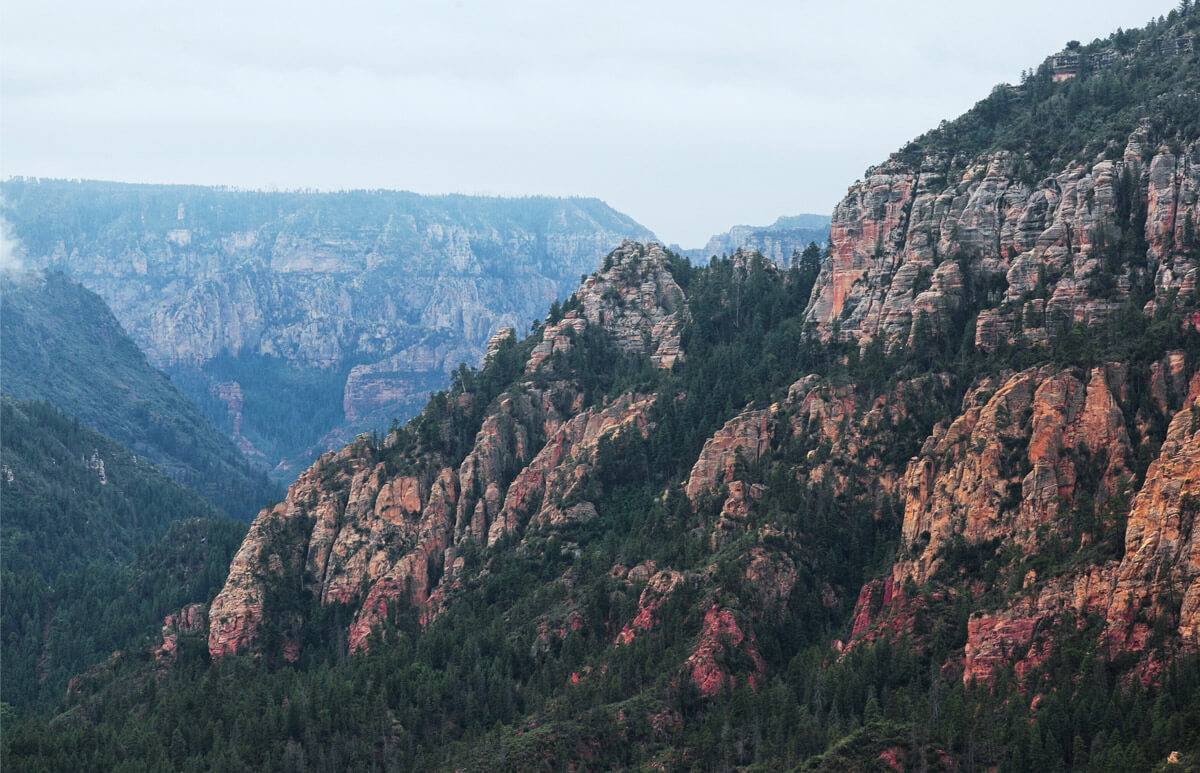
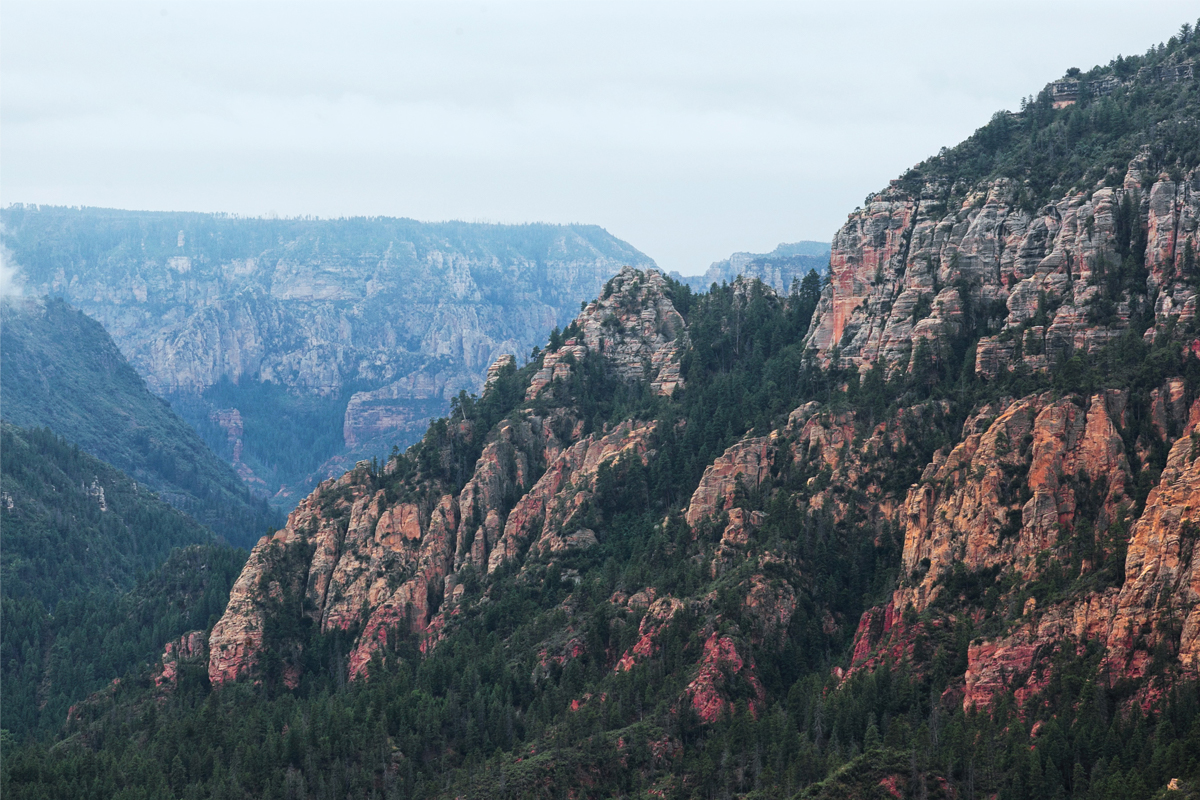
Исправления

diff --git a/catalog.html b/catalog.html
@@ -3,11 +3,12 @@
   <head>
     <meta charset="utf-8">
     <title>Sedona</title>
+    <link href="https://fonts.googleapis.com/css?family=PT+Sans:400,700&amp;subset=cyrillic" rel="stylesheet">
     <link rel="stylesheet" type="text/css" href="css/normalize.css">
     <link rel="stylesheet" type="text/css" href="css/styles.css">
   </head>
   <body>
-    <div class="conteiner">  
+    <div class="container">  
       <header class="main-header">
         <nav class="main-navigation">
           <div class="logo-sedona">
@@ -29,30 +30,30 @@
               <fieldset class="infrastructure">
                 <legend>Инфраструктура:</legend>
                 <div class="infrastructure-item">    
-                  <input class="visually-hidden input-checkbox" type="checkbox" checked id="infrastructure-pool">
+                  <input name="pool" class="visually-hidden input-checkbox" type="checkbox" checked id="infrastructure-pool">
                   <label for="infrastructure-pool">Бассейн</label>
                 </div>
                 <div class="infrastructure-item">
-                  <input class="visually-hidden input-checkbox" type="checkbox" id="infrastructure-parking">
+                  <input name="parking" class="visually-hidden input-checkbox" type="checkbox" id="infrastructure-parking">
                   <label for="infrastructure-parking">Парковка</label>
                 </div>
                 <div class="infrastructure-item"> 
-                  <input class="visually-hidden input-checkbox" type="checkbox" id="infrastructure-wi-fi">
+                  <input name="wi-fi" class="visually-hidden input-checkbox" type="checkbox" id="infrastructure-wi-fi">
                   <label for="infrastructure-wi-fi">Wi-Fi</label> 
                 </div>                
               </fieldset>    
               <fieldset class="type-of-housing">
                 <legend>Тип жилья:</legend>
-                <div class="type-of housing-item">
-                  <input class="visually-hidden input-checkbox" type="checkbox" checked id="type-hotel">
+                <div class="type-of-housing-item">
+                  <input name="hotel" class="visually-hidden input-checkbox" type="checkbox" checked id="type-hotel">
                   <label for="type-hotel">Гостинница</label> 
                 </div>
-                <div class="type-of housing-item">  
-                  <input class="visually-hidden input-checkbox" type="checkbox" checked id="type-motel">
+                <div class="type-of-housing-item">  
+                  <input name="motel" class="visually-hidden input-checkbox" type="checkbox" checked id="type-motel">
                   <label for="type-motel">Мотель </label>
                 </div>
-                <div class="type-of housing-item">
-                  <input class="visually-hidden input-checkbox" type="checkbox" checked id="type-apartment">
+                <div class="type-of-housing-item">
+                  <input name="apartment" class="visually-hidden input-checkbox" type="checkbox" checked id="type-apartment">
                   <label for="type-apartment">Аппартаменты</label>  
                 </div>      
               </fieldset>
@@ -90,8 +91,8 @@
               </div>
             </div>  
           </div>
-          <ul class="hotel-list">
-            <div class="center">
+          <div class="center">            
+            <ul class="hotel-list">            
               <li class="hotel-item">
                 <div class="hotel-photo">
                   <img src="img/amararesort.jpg" width="135" height="90" alt="Desert quail inn">
@@ -170,14 +171,14 @@
                   <span class="rating-results">Рейтинг: 9,2</span>
                 </div>
               </li>
-            </div>
-          </ul>
+            </ul>
+          </div>
         </section>
       </main>
        <footer class="main-footer">
         <p class="hashtag">#visitsedona</p>
         <ul class="footer-social">
-          <div class="social-conteiner">  
+          <div class="social-container">  
             <li><a class="social-twitter social-item" href="#"><span class="visually-hidden">Твиттер</span><svg xmlns="http://www.w3.org/2000/svg" xmlns:xlink="http://www.w3.org/1999/xlink" width="17" height="15" viewBox="0 0 17 15"><path fill="#FFF" d="M10.95.144c1.685-.496 2.984.27 3.577 1.179.673-.231 1.331-.481 2.011-.708a2.345 2.345 0 0 1-.857 1.768c.685.17 1.304-.491 1.304-.491-.169 1-1.006 1.788-1.563 2.024-.231 6.75-3.175 11.217-10.077 11.082h-.446c-.41 0-4.164-.46-4.898-1.887 2.271.196 3.893-.422 4.693-1.177-.96-.3-2.679-.477-2.979-2.95.349.106.564.228 1.19.119C1.705 8.247.374 7.53.448 5.33c.285.328 1.067.536 1.34.472C1.085 5.561-.182 2.442.894.85c1.818 1.854 3.735 3.606 7.152 3.773C8.254 2.33 9.183.793 10.95.144z"/></svg></a>
             </li>
             <li><a class="social-facebook social-item" href="#"><span class="visually-hidden">Фейсбук</span>

diff --git a/index.html b/index.html
@@ -8,7 +8,7 @@
     <link rel="stylesheet" type="text/css" href="css/styles.css">
   </head>
   <body>
-    <div class="conteiner">
+    <div class="container">
       <header class="main-header">
         <nav class="main-navigation">
           <div class="logo-sedona">
@@ -24,12 +24,11 @@
       </header>
       <main>
         <section class="banner">
-            <img src="img/welcome.png" alt="Седона">
+          <img src="img/welcome.png" alt="Седона">
         </section>
         <section class="sedona-intro">
           <h1 class="intro">Седона - небольшой городок в Аризоне, заслуживающий большего</h1>
-          
-            <p>Рассмотрим 5 причин, по которым Седона круче, чем Гранд Каньон</p>
+          <p>Рассмотрим 5 причин, по которым Седона круче, чем Гранд Каньон</p>
         </section>
         <section class="advantages">
           <h2 class="visually-hidden">Причины посетить Седону</h2>
@@ -101,14 +100,14 @@
             <form class="search-form" method="get">
               <label for="date-of-arrival">Дата заезда:</label>
               <div class="search-form-arrival">
-                <input type="text" id="date-of-arrival" value="24 апреля 2017">
+                <input name="date-arrival" type="text" id="date-of-arrival" value="24 апреля 2017">
                 <button class="date-calendar" type="button">
                   <span class="visually-hidden">Выберите дату</span>
                 </button>
               </div>
               <label for="date-of-departure">Дата выезда:</label>
               <div class="search-form-departure">
-                <input type="text" id="date-of-departure" value="4 июля 2017">
+                <input name="date-departure" type="text" id="date-of-departure" value="4 июля 2017">
                 <button class="date-calendar" type="button">
                   <span class="visually-hidden">Выберите дату</span>
                 </button>
@@ -117,7 +116,7 @@
                 <label for="visitor-adults">Взрослые:</label>
                 <div class="visitor-adults-area">
                   <button class="visitor-minus" type="button"><span class="visually-hidden">Минус один взрослый</span></button>
-                  <input type="text" id="visitor-adults" value="2">
+                  <input name="adults" type="text" id="visitor-adults" value="2">
                   <button class="visitor-plus" type="button"><span class="visually-hidden">Плюс один взрослый</span></button>
                 </div>
               </div>
@@ -125,7 +124,7 @@
                 <label for="visitor-children">Дети:</label>
                 <div class="visitor-children-area">
                   <button class="visitor-minus" type="button"><span class="visually-hidden">Минус один ребёнок</span></button>
-                  <input type="text" id="visitor-children" value="0">
+                  <input name="children" type="text" id="visitor-children" value="0">
                   <button class="visitor-plus" type="button"><span class="visually-hidden">Плюс один ребёнок</span></button>
                 </div>
               </div>
@@ -139,7 +138,7 @@
       <footer class="opacity-footer">
           <p class="hashtag">#visitsedona</p>
           <ul class="footer-social">
-            <div class="social-conteiner">  
+            <div class="social-container">  
               <li><a class="social-twitter social-item" href="#"><span class="visually-hidden">Твиттер</span><svg xmlns="http://www.w3.org/2000/svg" xmlns:xlink="http://www.w3.org/1999/xlink" width="17" height="15" viewBox="0 0 17 15"><path fill="#FFF" d="M10.95.144c1.685-.496 2.984.27 3.577 1.179.673-.231 1.331-.481 2.011-.708a2.345 2.345 0 0 1-.857 1.768c.685.17 1.304-.491 1.304-.491-.169 1-1.006 1.788-1.563 2.024-.231 6.75-3.175 11.217-10.077 11.082h-.446c-.41 0-4.164-.46-4.898-1.887 2.271.196 3.893-.422 4.693-1.177-.96-.3-2.679-.477-2.979-2.95.349.106.564.228 1.19.119C1.705 8.247.374 7.53.448 5.33c.285.328 1.067.536 1.34.472C1.085 5.561-.182 2.442.894.85c1.818 1.854 3.735 3.606 7.152 3.773C8.254 2.33 9.183.793 10.95.144z"/></svg></a>
               </li>
               <li><a class="social-facebook social-item" href="#"><span class="visually-hidden">Фейсбук</span>

diff --git a/css/styles.css b/css/styles.css
@@ -36,18 +36,16 @@ a {
 }
 
 .site-navigation a:focus {
-  color:#766357;
+  color: #766357;
 }
 
 
 .banner {
   position: relative;
-  height: 520px;
-  background: url(../img/banner-bottom.png) no-repeat,
-              #81b3d2 url("../img/sedona.jpg") no-repeat;
-  background-size: 100% , cover; 
-  background-clip: content-box;
-  background-position:bottom center, 0 -48px;
+  height: 512px;
+  background: url(../img/banner-bottom.png) no-repeat center bottom,
+              #81b3d2 url("../img/sedona.jpg") no-repeat 50% 30%;
+  background-size: 100% 58px, 100% auto;
 }
    
  
@@ -75,10 +73,10 @@ a {
 }
 
 .intro {
-  font-size:21px;
+  font-size: 21px;
   font-weight: bold;
   line-height: 26px;
-  text-align:center;
+  text-align: center;
   vertical-align: center;
   width: 600px;
   margin-left: auto;
@@ -95,12 +93,12 @@ a {
 }
 
 .advantages-list h3 {
-  font-size:21px;
+  font-size: 21px;
   line-height: 21px;
   font-weight: bold;  
 }
 
-.advantages-item:nth-child(-n+2) {
+.diablo-bridge {
   background-color: #81b3d2;
   color: #ffffff;
 }
@@ -307,7 +305,7 @@ a {
 }
 
 .show {
-  font-size:14px;
+  font-size: 14px;
   line-height: 21px;
   color: #ffffff;
   text-transform: uppercase;
@@ -379,12 +377,12 @@ a {
   text-transform: uppercase;
   font-weight: bold;
   text-decoration: none;
-  margin:0;
+  margin: 0;
   margin-bottom: 5px;
 }
 
 .title {
-  margin:0;
+  margin: 0;
 }
 
 .title a {
@@ -520,15 +518,14 @@ input {
 
  
 .site-navigation {
-  display:flex;
-  margin:0;
-  padding:0;
+  display: flex;
+  margin: 0;
+  padding: 0;
   padding-left: 6%;
   padding-right: 6%;
   max-width: 1200px;
   height: 56px;
   align-items: center;
-  box-sizing: 1200px;
 }
 
 .logo-sedona {
@@ -559,7 +556,7 @@ input {
   text-align: right;
 }
 
-.conteiner {
+.container {
   max-width: 1200px;
   min-width: 768px;
   margin-left: auto;
@@ -577,16 +574,14 @@ input {
 }
 
 .sedona-intro p {
-  margin:0;
-}
-
-.intro {
-  margin:;
+  margin: 0;
 }
 
 .small-town {
-  display:flex;
+  display: flex;
   height: 256px;
+  background-color: #81b3d2;
+  color: #ffffff;
 }
 
 .small-town p {
@@ -611,14 +606,13 @@ input {
 }
 
 .advantages-list {
-  margin:0;
-  padding:0;
+  margin: 0;
+  padding: 0;
 }
 
 .advantages-town {
-  display:flex;
+  display: flex;
   justify-content: space-around;
-  height:;
 }
 
 .diablo-bridge {
@@ -675,7 +669,7 @@ input {
   }
 
 .form-order h2 {
-  margin:0;
+  margin: 0;
  }
 
 .modal-btn-search {
@@ -742,13 +736,13 @@ input {
   
 }
 
-.social-conteiner {
+.social-container {
   width: 150px;
   display: flex;
   flex-wrap: wrap;
   justify-content: space-between;
-  padding:0;
-  margin:0;
+  padding: 0;
+  margin: 0;
 }
 
 .footer-social li {
@@ -848,7 +842,7 @@ img {
   height: 17px;
   box-sizing: border-box;
   margin-bottom: 48px;
-  padding:0;
+  padding: 0;
 }
 
 .center {
@@ -868,12 +862,12 @@ img {
   left: 50%;
   margin-left: -287.5px;
   top: 290px;
-  z-index:1; 
+  z-index: 1; 
 }
 
 .search-form {
   display: flex;
-  flex-wrap:wrap;
+  flex-wrap: wrap;
   box-sizing: border-box;
   justify-content: space-between;
   width: 575px;
@@ -899,7 +893,7 @@ img {
 .visitor-minus,
 .visitor-plus{
   border: 0;
-  padding:0;
+  padding: 0;
   width: 40px;
   height: 40px;
   box-sizing: border-box;
@@ -933,7 +927,7 @@ img {
 } 
 
 .search-form input[type="button"]{
-  margin:0;
+  margin: 0;
 }
 
 .visitor-adults-area {
@@ -1004,7 +998,7 @@ img {
 }
 
 .infrastructure legend {
-  margin:0;
+  margin: 0;
   margin-bottom: 20px;
   display: block;
 }
@@ -1045,7 +1039,7 @@ img {
 }
 
 .type-of-housing legend {
-  margin:0;
+  margin: 0;
   margin-bottom: 20px;
   display: block;
 }
@@ -1164,7 +1158,7 @@ img {
   top: -9px;
   background: #ababab;
   border: 8px solid #ffffff;
-  border-radius: 50%;
+  border-radius: 100%;
   box-shadow: 0 2px 1px 0 rgba(0, 1, 1, 0.2);
   cursor: pointer;
 }
